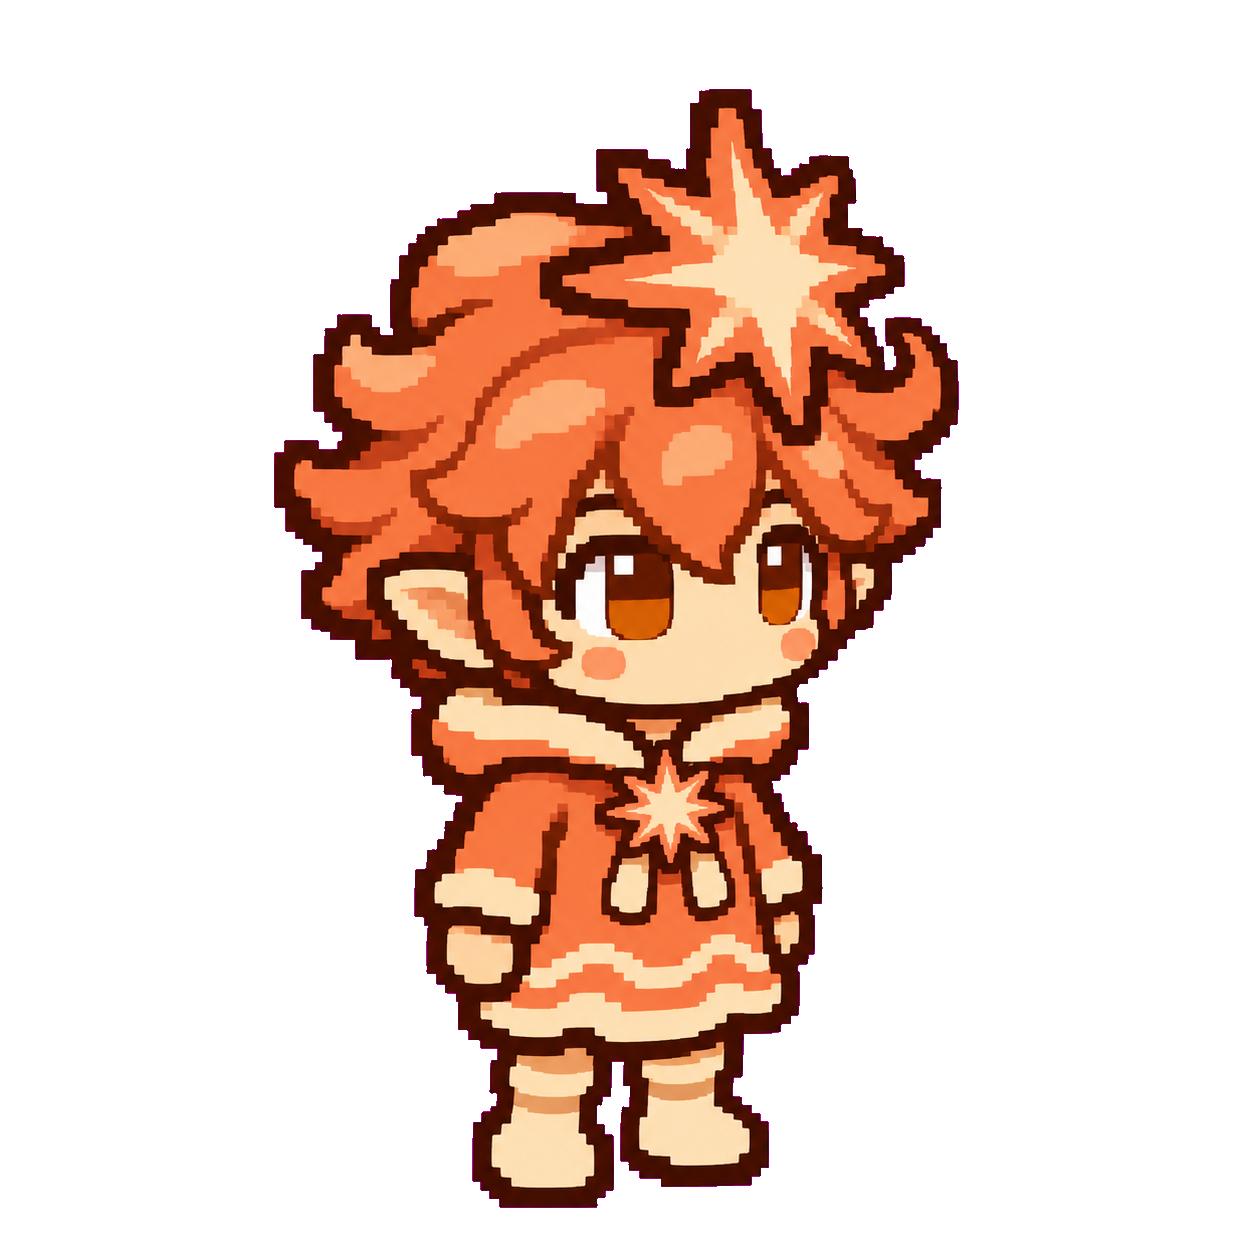
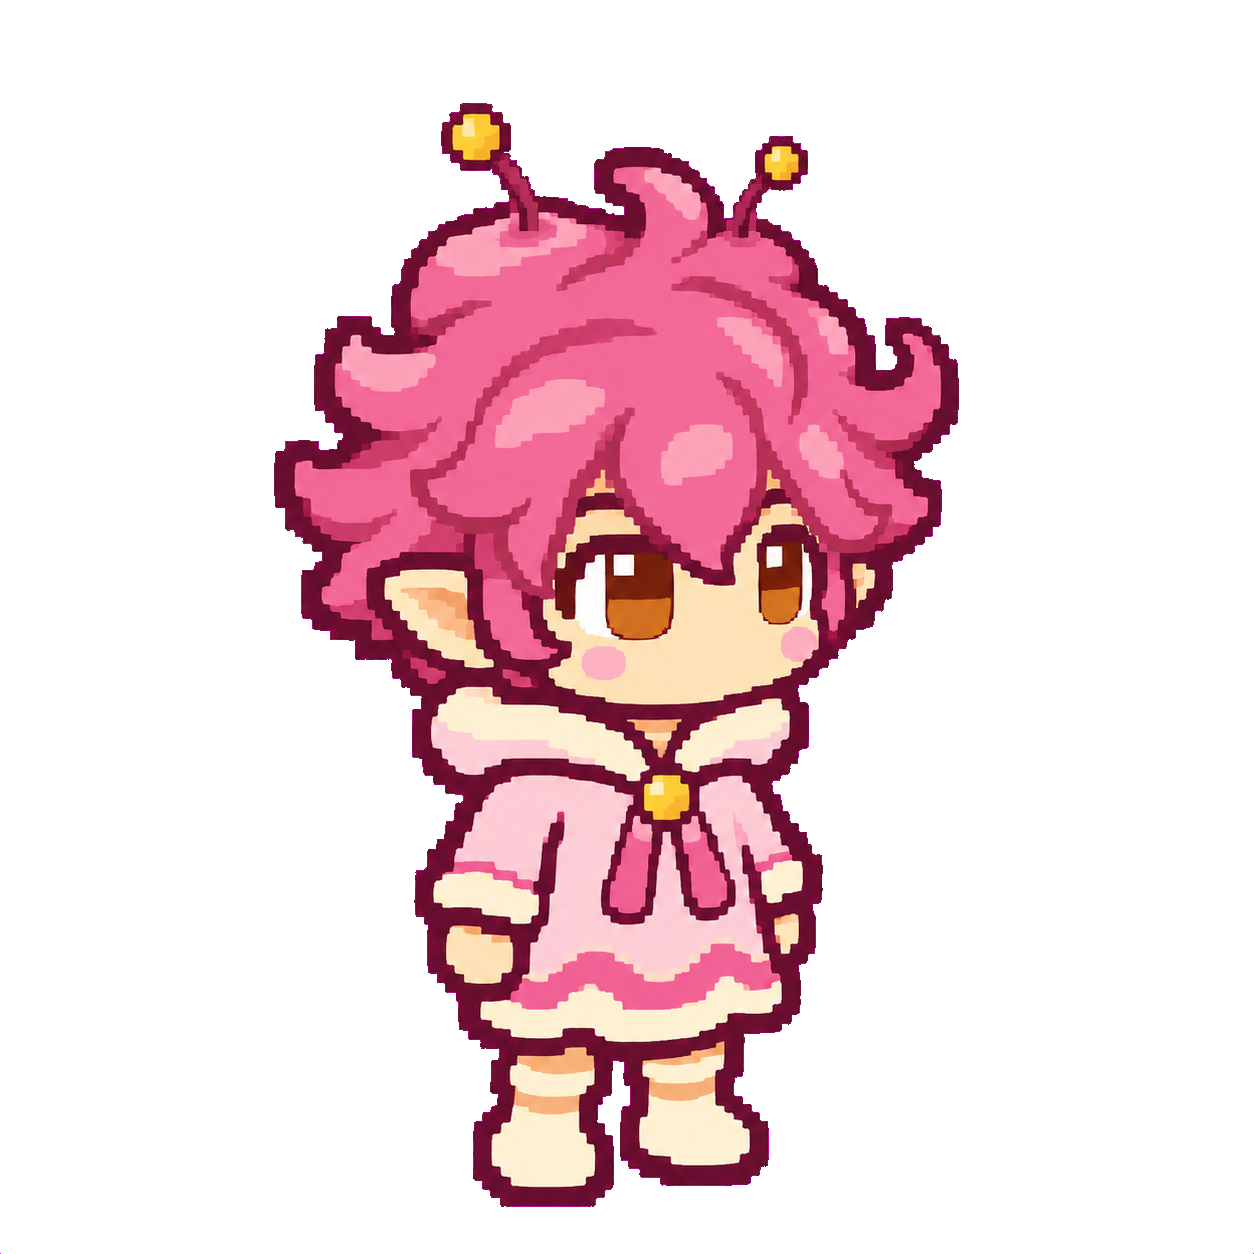
홍보: 아이리 새 그림 반영(키 다시 따기, 이름 색)

Changed region(s): [[0.2177, 0.0622, 0.7775, 0.9641]]

diff --git a/홍보/소스/초안/채팅만들기.js b/홍보/소스/초안/채팅만들기.js
@@ -32,7 +32,7 @@ background-image:linear-gradient(45deg,#351829 25%,transparent 25%,transparent 7
 .av{width:72px;height:72px;box-sizing:border-box;border:3px solid #000;outline:2px solid #3b3550;background-repeat:no-repeat;overflow:hidden}
 .me .av{transform:scaleX(-1);background-color:#f2c23c;background-size:260%;background-position:53% 50%}
 .ai .av{background-color:#54496e;background-size:210%;background-position:62% 40%}
-.nm{margin-top:6px;font-size:11px;font-weight:bold;color:#a79fb8}.me .nm{color:#f2c23c}.ai .nm{color:#ff9a5c}
+.nm{margin-top:6px;font-size:11px;font-weight:bold;color:#a79fb8}.me .nm{color:#f2c23c}.ai .nm{color:#ff8fae}
 .b{position:relative;max-width:840px;filter:drop-shadow(0 4px 0 #0a0810)}
 .o{background:#000;padding:4px;clip-path:${clip}}
 .i{box-sizing:border-box;min-height:64px;display:flex;align-items:center;padding:14px 28px 20px;font-size:22px;font-weight:bold;line-height:1.5;text-wrap:balance;word-break:keep-all;clip-path:${clip}}

diff --git a/개발일지/2026-11-25/홍보.md b/개발일지/2026-11-25/홍보.md
@@ -316,3 +316,7 @@
 ## 뼈대 영상 수정 + 배너 확정 알림
 - 한 것: 컷 전환을 검은 픽셀 칸(마크 없음)으로, POINT 항목 번호 칸 제거(사용자 "123 여기"), "클립 자리" 상자 클래스 충돌 수정. 뼈대 영상 재생성.
 - 알림: 3.이미지 세션이 채널 배너 확정(`홍보/소스/채널/배너.png`, 2560×1440)을 알려 옴. 올리기 전 사용자가 유튜브 미리보기로 모바일 띠 확인 필요. 아이리 로즈핑크 시안은 사용자 확인 대기.
+
+## 아이리 새 그림 반영
+- 한 것: 이미지 세션이 확정한 로즈핑크 아이리(안테나 두 개)로 `홍보/소스/채널/아이리_전신.png`를 다시 지움(가장자리에서 이어진 마젠타만 지우는 방식, 경계는 윤곽색). 말풍선·키포인트·뼈대 영상 다시 렌더링, 말풍선 이름 색을 분홍으로.
+- 결과: 지운 가장자리에 분홍 잔상 없음(어두운 배경에 겹쳐 확인). 말풍선 얼굴 칸은 얼굴이 보이나 아래쪽이 약간 잘림.
